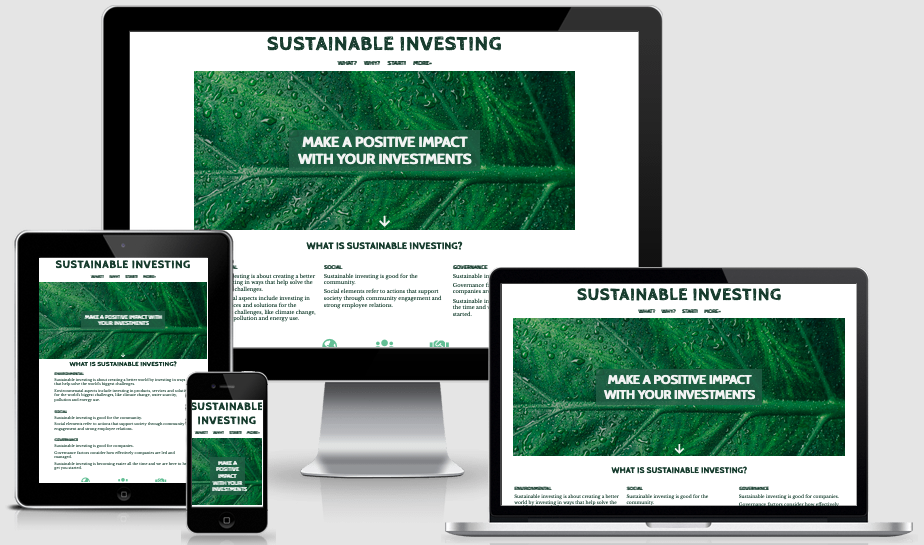
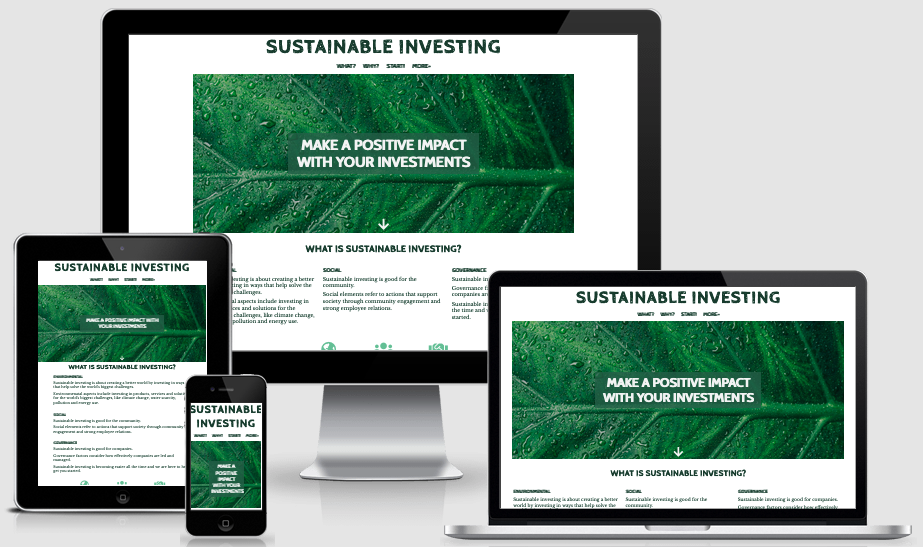
docs: Deployment and Credits in README.md

diff --git a/assets/css/style.css b/assets/css/style.css
@@ -82,7 +82,7 @@ a:hover {
 /* HERO IMAGE */
 
 #hero-image {
-    background: url("../images/pexels-scott-webb-1048033-sml.jpg");
+    background: url("../images/pexels-scott-webb-1048033-small.webp");
     background-size: cover;
     background-repeat: no-repeat;
     background-position: center;
@@ -103,7 +103,7 @@ a:hover {
     grid-row-start: 2;
 }
 
-#hero-text-box h1 {
+#hero-text-box h2 {
     color: whitesmoke;
     font-weight: 600;
     font-size: 1.4rem;
@@ -332,7 +332,7 @@ a:hover {
         margin: 0 auto;
     }
 
-    #hero-text-box h1 {
+    #hero-text-box h2 {
         font-size: 2.75rem;
     }
 

diff --git a/index.html b/index.html
@@ -47,7 +47,7 @@
         <section>
             <div id="hero-image">
                 <div id="hero-text-box">
-                    <h1>Make a positive impact with your investments</h1>
+                    <h2>Make a positive impact with your investments</h2>
                 </div>
                 <div id="hero-arrow"><i class="fas fa-arrow-down"></i></div>
             </div>

diff --git a/README.md b/README.md
@@ -98,5 +98,63 @@ The website code has been tested for errors
 
 The website has been reviewed for accessibility using 
 
+## Fixes
+
+JPG to WebP
+
+## DEPLOYMENT
+
+The site has been deployed through [GitHub Pages](https://marktodman.github.io/sustainable-investing/). 
+
+## Remote Deployment
+
+The steps to remote deployment via GitHub Pages are:
+
+1. Create an account at [GitHub](www.gitpod.io).
+2. Log into your GitHub account.
+3. Go to the GitHub repository for [Sustainable Investing](https://github.com/marktodman/sustainable-investing).
+4. Click on 'Settings'.
+5. Select 'Pages' from the menu on the left-hand-side.
+6. Under 'Source' select 'Main' and click 'Save'.
+7. Notification that the site is published appears on the top of the pages section together with a [link to the site](https://marktodman.github.io/sustainable-investing/).
+
+## Local Depoloyment
+
+The steps to make a local copy via GitHub pages are:
+
+1. Create an account at [GitHub](www.gitpod.io).
+2. Log into your GitHub account.
+3. Go to the GitHub repository for [Sustainable Investing](https://github.com/marktodman/sustainable-investing).
+4. Click the green 'Code' button.
+5. Select your chosen clone format: HTTPS, SSH or GitHub CLI.
+6. Click the 'copy' button.
+7. Deploy the copy locally.
+
+## Forking the GitHub Repository
+
+To use this code and make changes without affecting the original code, it is possible to 'fork' the code on the GitHub repository through the following steps:
+
+1. Create an account at [GitHub](www.gitpod.io).
+2. Log into your GitHub account.
+3. Go to the GitHub repository for [Sustainable Investing](https://github.com/marktodman/sustainable-investing).
+4. Click the 'Fork' button in the upper right hand corner of the page.
+5. A copy of the repository will be available in your own repository.
+
+## CREDITS
+
+[Scott Webb on Pexels](https://www.pexels.com/@scottwebb) provided the hero image.
+
+[Tiny JPG](https://tinyjpg.com/) and [Compress.com](https://www.compresss.com/compress-webp.html) were utilised to compress images. [Cloud Convert](https://cloudconvert.com/jpg-to-webp) was used to convert JPG to WebP format to try and improve Performance.
+
+The scroll to top button was created using code taken directly from [W3 Schools](https://www.w3schools.com/howto/howto_js_scroll_to_top.asp). The helpful community at [Stack Overflow](https://stackoverflow.com/questions/70734242/hidden-javascript-button-on-larger-screen) ensured that it would not display on larger screens.
+
+Chris Quinn as Mentor and John Traas in Tutor Support at the [Code Institute](https://codeinstitute.net/) provided excellent direction and helped with resources to solve CSS Grid and Flexbox challenges.
+
+[Kevin Powell](https://www.youtube.com/user/KepowOb) provided invaluable guidance on CSS Grid.
+
+
+
+
+
 
 
